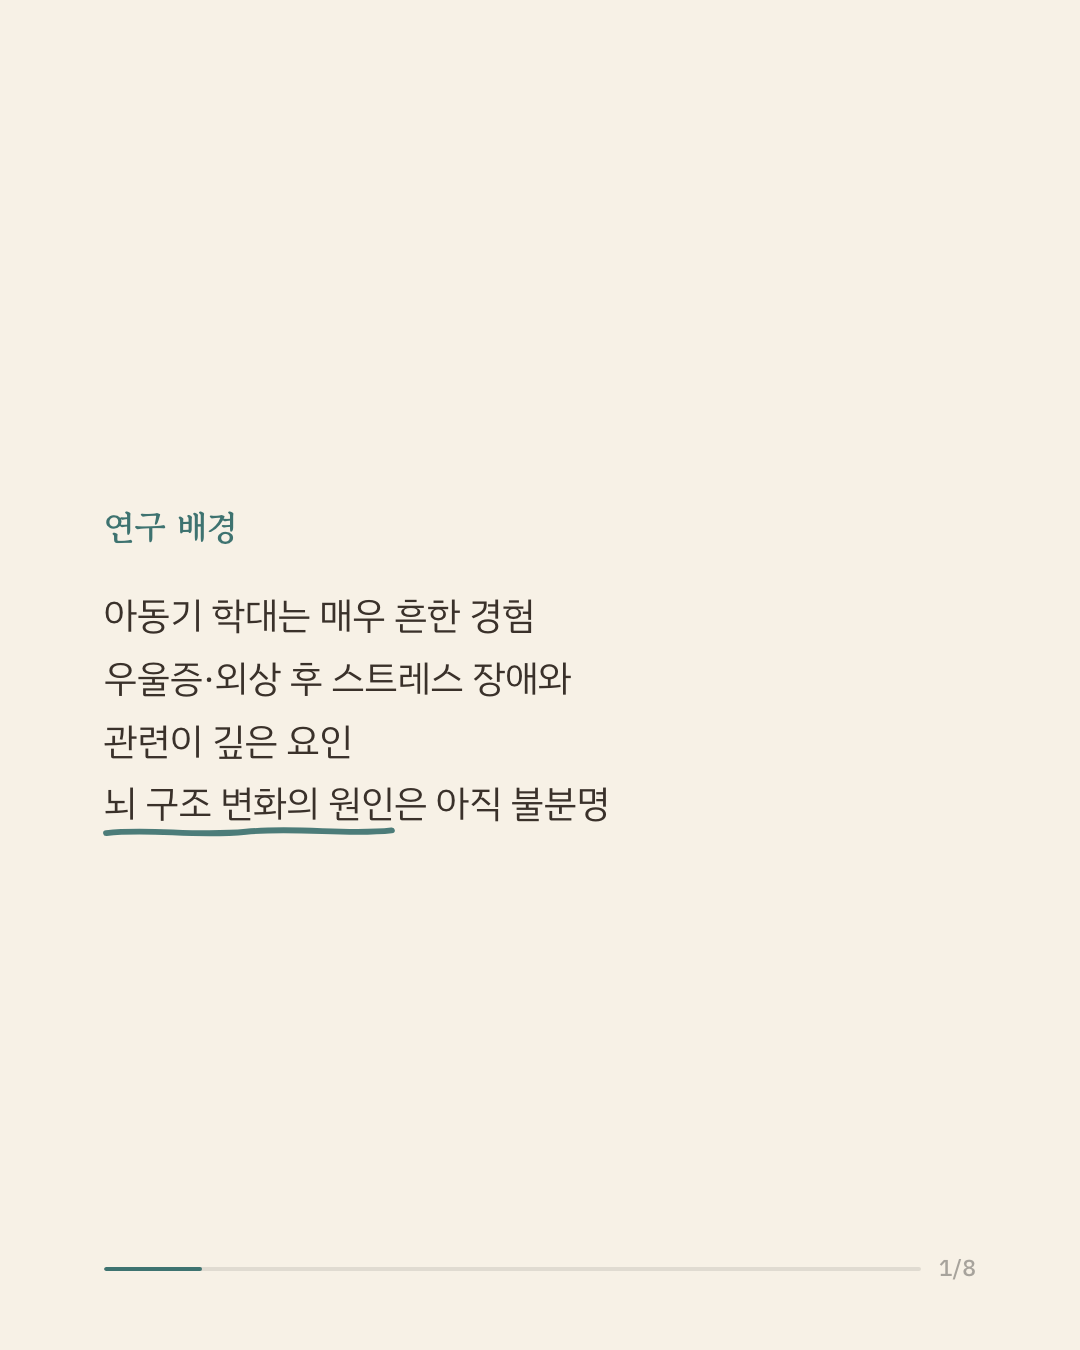
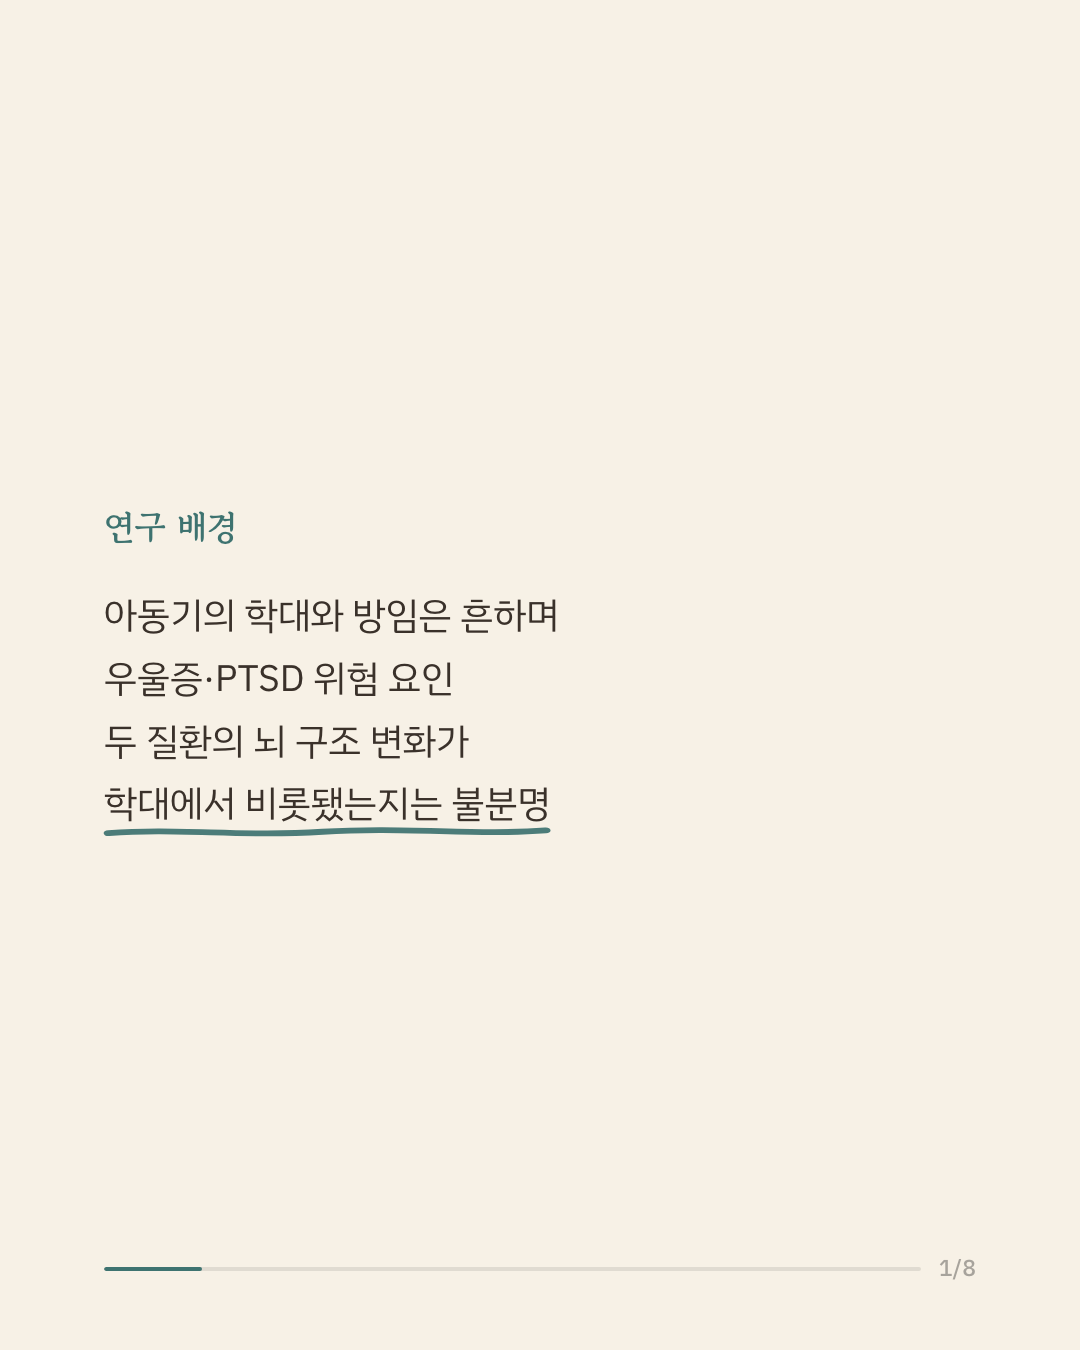
cards: curated illustrations

Changed region(s): [[0.0917, 0.4356, 0.5806, 0.6222]]

diff --git a/41791639/preview.html b/41791639/preview.html
@@ -1,6 +1,6 @@
 <!doctype html><html lang=ko><head><meta charset=utf-8>
 <meta name=viewport content="width=device-width,initial-scale=1,viewport-fit=cover">
-<title>아동기 학대와 뇌 구조의 변화 · 검수</title><style>
+<title>학대가 뇌에 남기는 흔적 · 검수</title><style>
 *{box-sizing:border-box} body{margin:0;background:#241c17;font-family:-apple-system,'Apple SD Gothic Neo',sans-serif;color:#eee}
 .top,.bot{position:fixed;left:0;right:0;z-index:5;padding:11px 16px;background:rgba(0,0,0,.6);
   backdrop-filter:blur(6px);font-size:14px;display:flex;justify-content:space-between;gap:10px}
@@ -11,9 +11,9 @@
 code{background:#3a2f27;padding:2px 7px;border-radius:5px;color:#e0a58b;user-select:all}
 details{color:#cbbfb4} summary{cursor:pointer}
 </style></head><body>
-<div class="top"><span>아동기 학대와 뇌 구조의 변화</span><span>9장 · 신경영상</span></div>
+<div class="top"><span>학대가 뇌에 남기는 흔적</span><span>9장 · 신경영상</span></div>
 <div class="gal"><img src="01.png" alt="슬라이드 1" loading="lazy"><img src="02.png" alt="슬라이드 2" loading="lazy"><img src="03.png" alt="슬라이드 3" loading="lazy"><img src="04.png" alt="슬라이드 4" loading="lazy"><img src="05.png" alt="슬라이드 5" loading="lazy"><img src="06.png" alt="슬라이드 6" loading="lazy"><img src="07.png" alt="슬라이드 7" loading="lazy"><img src="08.png" alt="슬라이드 8" loading="lazy"><img src="09.png" alt="슬라이드 9" loading="lazy"></div>
 <div class="bot">
-<details><summary>캡션 보기</summary><p style="font-size:13px;line-height:1.6">아동기의 학대와 방임은 우울증, 외상 후 스트레스 장애의 위험을 높이는 것으로 알려져 있습니다. 다만 두 질환에서 관찰되는 뇌 구조의 차이가 실제로 아동기 학대에서 비롯된 것인지는 분명하지 않았습니다. 연구진은 ENIGMA 컨소시엄에 참여한 25개 기관의 청소년·성인 3,711명의 뇌 MRI 자료를 모아, 규범 모델링으로 뇌 부위별 편차 점수를 구하고 학대 경험과의 관련성을 성별과 연령대로 나누어 살펴봤습니다. 분석 결과 18세 이하에서는 뚜렷한 차이가 없었지만, 18~35세 성인에서는 학대 경험이 시상·창백핵의 부피 증가, 일부 피질의 두께 변화와 관련이 있었습니다. 특히 젊은 여성에서 관련성이 가장 뚜렷해, 학대와 방임의 정도가 클수록 해마와 조가비핵의 부피가 작고 내후각 피질이 얇은 경향이 나타났습니다(β 0.07~0.22로 작은 편). 연구진은 아동기 경험이 뇌에 남기는 흔적이 성별과 발달 시기에 따라 다르게 나타나며, 이를 이해하려면 발달 맥락을 함께 봐야 한다고 설명합니다. 다만 한 시점에 촬영한 뇌 영상을 비교한 연구여서 인과관계는 알 수 없고, 학대 경험도 성인기의 회고 보고에 의존했습니다. 단일 연구이므로 확대 해석은 조심해야 합니다. 출처: Biological Psychiatry (2026).  #임상심리 #정신건강정보 #아동학대 #트라우마 #뇌영상연구</p></details>
+<details><summary>캡션 보기</summary><p style="font-size:13px;line-height:1.6">아동기의 학대와 방임은 성인기의 우울증과 외상 후 스트레스 장애 위험을 높이는 것으로 알려져 있습니다. 다만 이 두 질환에서 관찰되는 뇌 구조의 변화가 실제로 아동기 학대에서 비롯된 것인지는 분명하지 않았습니다. 연구진은 ENIGMA 컨소시엄의 우울증·PTSD 연구 그룹에 참여한 25개 기관, 3,711명(평균 33.3세, 59.9% 여성)의 뇌 MRI 자료를 규범 모델링으로 분석해 뇌 부피, 피질 두께, 표면적의 편차 점수를 구하고, 성별과 연령대(소아, 젊은 성인, 노년 성인)로 나누어 학대와의 연관성을 살펴보았습니다. 18세 이하 참가자에서는 유의한 차이가 나타나지 않았습니다. 반면 18~35세 젊은 성인에서는 학대가 시상과 담창구의 부피 증가, 일부 전두·대상 영역의 두께 변화와 관련이 있었고, 특히 젊은 여성에서 연관이 가장 뚜렷해 학대와 방임 경험이 많을수록 해마와 조가비핵의 부피가 작고 내후각 피질이 얇았으며 그 크기는 대체로 작은 수준(|β| 0.07~0.22)이었습니다. 연구진은 학대가 뇌에 남기는 영향이 발달 시기와 성별에 따라 다르게 나타난다는 점을 보여준다고 설명합니다. 다만 뇌 영상이 한 시점에 촬영된 단면 자료여서 학대와 뇌 변화의 선후 관계를 알기 어렵고, 학대 정보도 후향적 자기보고에 의존하며, 여러 기관의 자료를 합친 만큼 표본마다 질의 차이가 있습니다. 단일 연구이므로 확대 해석은 조심해야 합니다. 출처: Biological Psychiatry(2026), ENIGMA MDD·PTSD Working Groups.  #임상심리 #정신건강정보 #심리학연구 #아동학대 #뇌영상연구</p></details>
 <span>← 좌우로 넘겨 검수 · 승인: <code>python3 publish.py 41791639</code></span>
 </div></body></html>

diff --git a/42337416/preview.html b/42337416/preview.html
@@ -1,6 +1,6 @@
 <!doctype html><html lang=ko><head><meta charset=utf-8>
 <meta name=viewport content="width=device-width,initial-scale=1,viewport-fit=cover">
-<title>생체리듬 앱으로 기분 삽화 예방 · 검수</title><style>
+<title>기분 삽화 재발을 막는 생체리듬 앱 · 검수</title><style>
 *{box-sizing:border-box} body{margin:0;background:#241c17;font-family:-apple-system,'Apple SD Gothic Neo',sans-serif;color:#eee}
 .top,.bot{position:fixed;left:0;right:0;z-index:5;padding:11px 16px;background:rgba(0,0,0,.6);
   backdrop-filter:blur(6px);font-size:14px;display:flex;justify-content:space-between;gap:10px}
@@ -11,9 +11,9 @@
 code{background:#3a2f27;padding:2px 7px;border-radius:5px;color:#e0a58b;user-select:all}
 details{color:#cbbfb4} summary{cursor:pointer}
 </style></head><body>
-<div class="top"><span>생체리듬 앱으로 기분 삽화 예방</span><span>10장 · 임상심리</span></div>
+<div class="top"><span>기분 삽화 재발을 막는 생체리듬 앱</span><span>10장 · 임상심리</span></div>
 <div class="gal"><img src="01.png" alt="슬라이드 1" loading="lazy"><img src="02.png" alt="슬라이드 2" loading="lazy"><img src="03.png" alt="슬라이드 3" loading="lazy"><img src="04.png" alt="슬라이드 4" loading="lazy"><img src="05.png" alt="슬라이드 5" loading="lazy"><img src="06.png" alt="슬라이드 6" loading="lazy"><img src="07.png" alt="슬라이드 7" loading="lazy"><img src="08.png" alt="슬라이드 8" loading="lazy"><img src="09.png" alt="슬라이드 9" loading="lazy"><img src="10.png" alt="슬라이드 10" loading="lazy"></div>
 <div class="bot">
-<details><summary>캡션 보기</summary><p style="font-size:13px;line-height:1.6">우울증(주요우울장애)과 양극성 장애는 증상이 나아진 뒤에도 기분 삽화가 반복되는 경우가 많아, 재발을 얼마나 막느냐가 장기 경과를 좌우합니다. 수면과 활동 같은 생체리듬의 교란은 이런 재발과 관련이 있다고 알려져 왔습니다. 연구진은 스마트폰의 수동 센서 데이터로 3일 뒤 기분을 예측하고 개인 맞춤 생체리듬 피드백을 주는 앱(CRM)을 개발해, 기분장애 성인 93명을 실제 앱군과 가짜 앱군에 1:1로 배정하고 12개월간 이중맹검으로 추적했습니다. 수정 ITT 분석(80명)에서 가짜 앱군의 재발 빈도는 실제 앱군의 약 3.4배였습니다(발생률비 3.39, 95% CI 1.86–6.17). 재발이 지속된 일수와 재발까지 걸린 시간에서도 실제 앱군이 더 나은 결과를 보였고, 뚜렷한 부작용은 보고되지 않았습니다. 연구진은 CRM이 표준 치료에 더하는, 확장 가능한 디지털 생체리듬 보조 치료가 될 수 있다고 보았습니다. 다만 참가자 수가 93명으로 크지 않고 장기 효과와 실제 사용률은 아직 확인되지 않았습니다. 단일 연구이므로 확대 해석은 조심해야 합니다. 출처: The American Journal of Psychiatry (2026), Circadian Rhythm Stabilization App to Prevent Mood Episode Recurrence in Patients With Mood Disorders.  #임상심리 #정신건강정보 #양극성장애 #우울증치료 #디지털치료제</p></details>
+<details><summary>캡션 보기</summary><p style="font-size:13px;line-height:1.6">우울증과 양극성 장애에서 가장 중요한 치료 목표 중 하나는 기분 삽화의 재발을 막는 것입니다. 연구진은 스마트폰 센서로 모은 활동·수면 데이터를 분석해 개인별 생체리듬 피드백과 3일치 기분 예측을 제공하는 &#x27;CRM&#x27; 앱을 개발했습니다. 이 앱의 효과를 확인하기 위해 우울증 또는 양극성 장애 성인 93명을 실제 CRM 앱 집단과 겉모습이 똑같은 가짜 앱 집단에 1대1로 무작위 배정하고 12개월간 다기관·이중맹검 방식으로 추적했습니다. 완결 분석 대상 80명에서 가짜 앱 집단의 재발 발생률이 실제 앱 집단보다 유의하게 높았습니다(발생률비 3.39배, 95% 신뢰구간 1.86–6.17). 재발까지 걸린 시간과 누적 삽화 일수에서도 실제 앱 집단이 유리했고, 심각한 부작용은 관찰되지 않았습니다. 연구진은 CRM이 표준 치료를 보완하는 확장성 있는 디지털 보조 요법이 될 수 있다고 보았습니다. 다만 참가자가 93명 규모이고 관찰 기간이 12개월로 제한되어 장기 효과는 아직 확인되지 않았습니다. 단일 연구이므로 확대 해석은 조심해야 합니다. 출처: Circadian Rhythm Stabilization App to Prevent Mood Episode Recurrence in Patients With Mood Disorders: A Multicenter, Double-Blind, Sham-Controlled, Randomized Clinical Trial. The American Journal of Psychiatry (2026).  #임상심리 #정신건강정보 #양극성장애 #우울증재발 #디지털치료제</p></details>
 <span>← 좌우로 넘겨 검수 · 승인: <code>python3 publish.py 42337416</code></span>
 </div></body></html>

diff --git a/42424684/preview.html b/42424684/preview.html
@@ -1,0 +1,19 @@
+<!doctype html><html lang=ko><head><meta charset=utf-8>
+<meta name=viewport content="width=device-width,initial-scale=1,viewport-fit=cover">
+<title>미루는 습관 무엇이 바뀌나 · 검수</title><style>
+*{box-sizing:border-box} body{margin:0;background:#241c17;font-family:-apple-system,'Apple SD Gothic Neo',sans-serif;color:#eee}
+.top,.bot{position:fixed;left:0;right:0;z-index:5;padding:11px 16px;background:rgba(0,0,0,.6);
+  backdrop-filter:blur(6px);font-size:14px;display:flex;justify-content:space-between;gap:10px}
+.top{top:0} .bot{bottom:0;flex-direction:column;gap:6px}
+.gal{display:flex;overflow-x:auto;scroll-snap-type:x mandatory;height:100vh;align-items:center;
+  -webkit-overflow-scrolling:touch}
+.gal img{scroll-snap-align:center;flex:0 0 100%;width:100%;max-height:88vh;object-fit:contain}
+code{background:#3a2f27;padding:2px 7px;border-radius:5px;color:#e0a58b;user-select:all}
+details{color:#cbbfb4} summary{cursor:pointer}
+</style></head><body>
+<div class="top"><span>미루는 습관 무엇이 바뀌나</span><span>9장 · 임상심리</span></div>
+<div class="gal"><img src="01.png" alt="슬라이드 1" loading="lazy"><img src="02.png" alt="슬라이드 2" loading="lazy"><img src="03.png" alt="슬라이드 3" loading="lazy"><img src="04.png" alt="슬라이드 4" loading="lazy"><img src="05.png" alt="슬라이드 5" loading="lazy"><img src="06.png" alt="슬라이드 6" loading="lazy"><img src="07.png" alt="슬라이드 7" loading="lazy"><img src="08.png" alt="슬라이드 8" loading="lazy"><img src="09.png" alt="슬라이드 9" loading="lazy"></div>
+<div class="bot">
+<details><summary>캡션 보기</summary><p style="font-size:13px;line-height:1.6">할 일을 자꾸 미루는 습관은 흔한 자기조절의 어려움이며, 삶의 질을 떨어뜨리기도 합니다. 인지행동치료(CBT)는 미루기에 가장 유력한 개입으로 꼽히지만, 누구에게 잘 듣는지와 무엇이 변화를 이끄는지는 분명하지 않았습니다. 연구진은 학업 미루기 CBT와 대기자 대조군을 비교한 무작위 대조시험 두 건의 데이터를 합쳐 참가자 459명을 대상으로, 개입 전·중·후 세 시점의 자료를 종단 매개모형으로 분석했습니다. 그 결과 기저의 정서조절 어려움이 클수록 개입 효과가 더 컸고, 우울·불안·ADHD 증상은 결과를 좌우하지 않았습니다. 변화의 기제로는 과제의 가치를 더 크게 느끼고 능동적으로 통제하는 힘이 커지는 것이 미루기 감소를 매개했으며, 과제와 관련된 긍정 정서 증가와 부정 정서 감소, 끈기와 감정 명료성의 향상도 관련이 있었습니다. 이는 CBT가 폭넓은 대상에게 적용될 수 있고, 과제 관련 정서와 자기조절을 겨냥하면 개입을 더 다듬을 수 있음을 시사합니다. 다만 기존 시험 자료를 다시 분석한 연구이고 학생 표본에 한정되며 자기보고 측정에 주로 의존했습니다. 단일 연구이므로 확대 해석은 조심해야 합니다. 출처: Behaviour Research and Therapy (2026).  #임상심리 #인지행동치료 #정신건강정보 #심리학연구 #미루기</p></details>
+<span>← 좌우로 넘겨 검수 · 승인: <code>python3 publish.py 42424684</code></span>
+</div></body></html>

diff --git a/42522065/tmpu93v8_ye.html b/42522065/tmpu93v8_ye.html
@@ -30,7 +30,7 @@
   position:absolute; left:-.05em; right:-.05em; bottom:-.12em;
   width:calc(100% + .1em); height:.42em; overflow:visible;
 }
-.illus { width:340px; margin-bottom:44px; }
+.illus { width:430px; margin-bottom:48px; }
 .illus svg { width:100%; height:auto; display:block; }
 .stype {
   display:inline-block;
@@ -69,4 +69,4 @@
 .trk { flex:1; height:4px; border-radius:3px; overflow:hidden; }
 .fil { height:100%; border-radius:3px; }
 .bar span { font-size:23px; font-weight:500; font-variant-numeric:tabular-nums; }
-</style><div class="slide" style="background:#F7F1E6;color:#2A211B"><div class="stack center"><div class="kicker" style="color:#C15B3C">이 연구의 의미</div><div class="body">덜 중증인 집단에서 나온<br>기존 결과와 일관된 방향<br><span class="em">치료제 개발을 이어갈<svg class="ul" viewBox="0 0 200 12" preserveAspectRatio="none"><path d="M3,7 C34,3 62,10 98,6 C134,2 166,9 197,5" fill="none" stroke="#C15B3C" stroke-width="4.5" stroke-linecap="round"/></svg></span> 근거 제시</div></div><div class="bar"><div class="trk" style="background:rgba(0,0,0,.09)"><div class="fil" style="width:62%;background:#C15B3C"></div></div><span style="color:rgba(0,0,0,.32)">5/8</span></div></div>
+</style><div class="slide" style="background:#F7F1E6;color:#2A211B"><div class="stack center"><div class="kicker" style="color:#C15B3C">기억할 한 가지</div><div class="takeaway">실험실 갈망은 그대로,<br>실생활 폭음은 줄었다</div></div><div class="bar"><div class="trk" style="background:rgba(0,0,0,.09)"><div class="fil" style="width:88%;background:#C15B3C"></div></div><span style="color:rgba(0,0,0,.32)">7/8</span></div></div>
